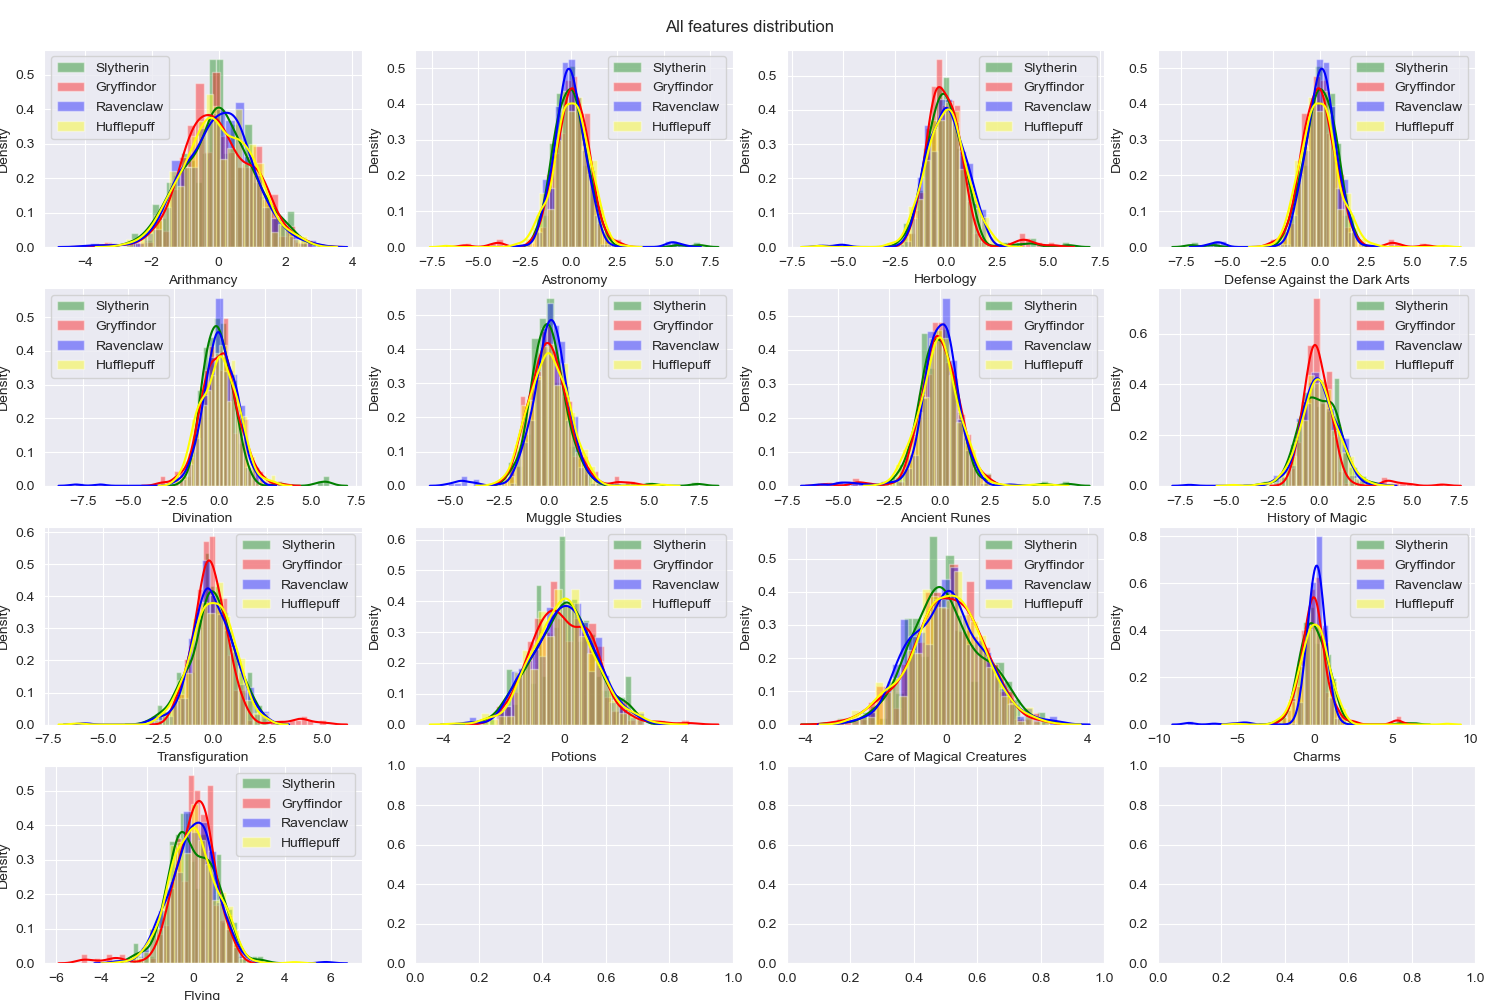
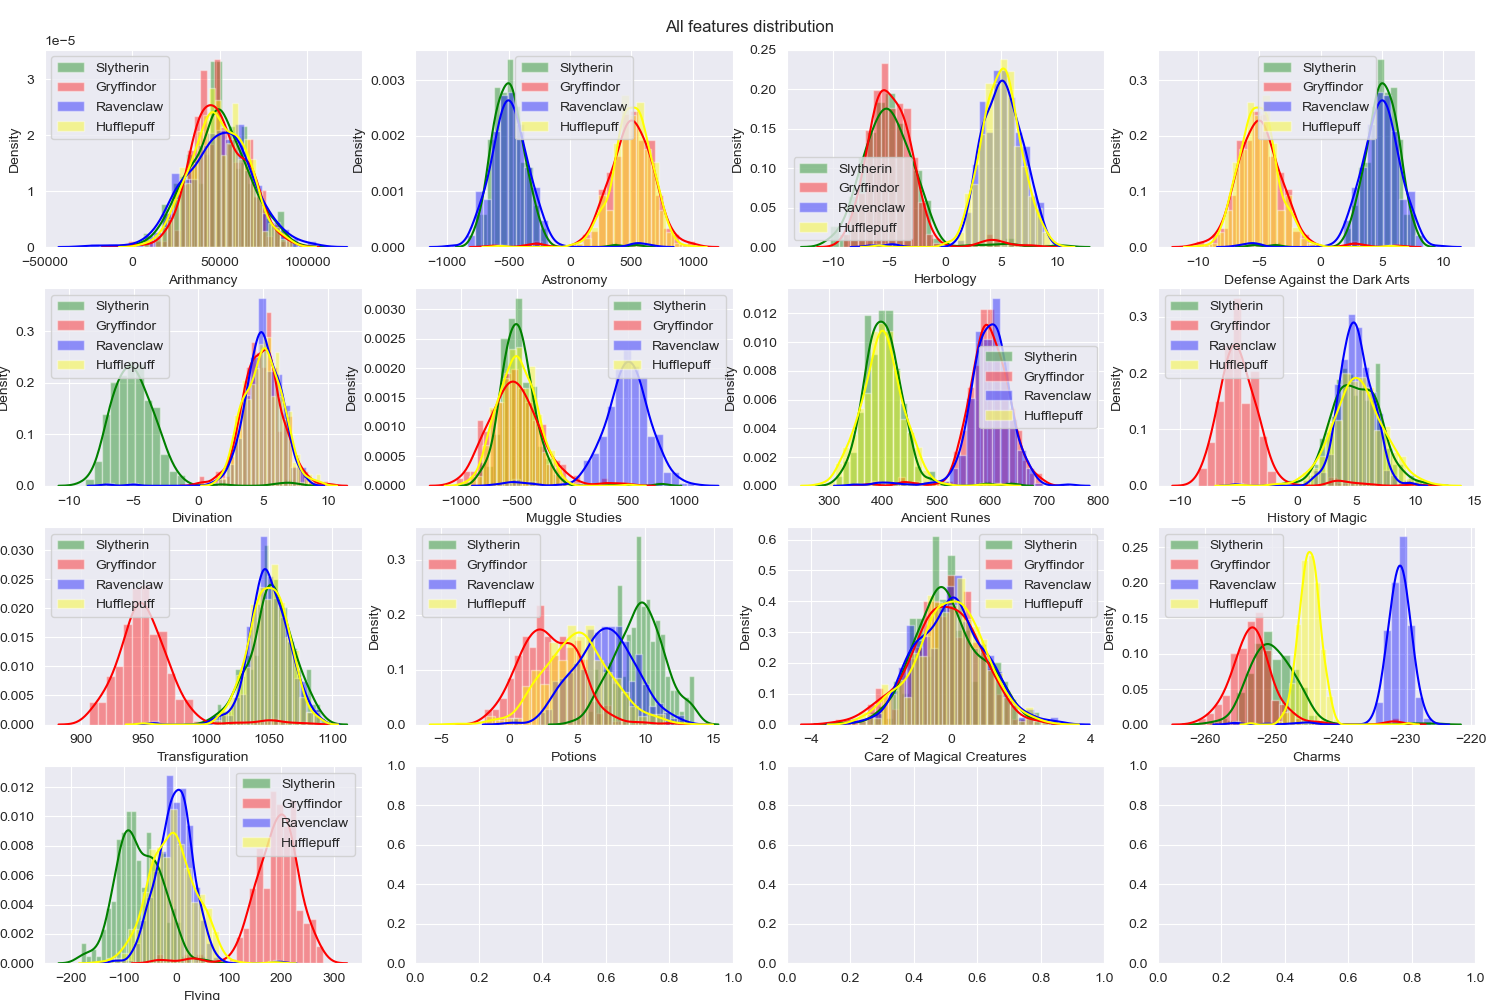
Finished 'scatter' part.

diff --git a/scatter_plot.py b/scatter_plot.py
@@ -1,0 +1,22 @@
+import warnings
+import seaborn as sns
+import matplotlib.pyplot as plt
+import src.tools as tools
+
+if __name__ == '__main__':
+    warnings.simplefilter(action='ignore', category=FutureWarning)
+    args = tools.parse_args_dataset()
+    dataset = tools.read_dataset(args['dataset_path'])
+    houses = ['Slytherin', 'Gryffindor', 'Ravenclaw', 'Hufflepuff']
+    houses_dfs = {}
+    sns.set_style('darkgrid')
+    for house in houses:
+        df = dataset[dataset['Hogwarts House'] == house]
+        houses_dfs[house] = tools.select_features(df, dropna=True)
+    sns.scatterplot(x=houses_dfs['Slytherin']['Astronomy'], y=houses_dfs['Slytherin']['Defense Against the Dark Arts'], label='Slytherin', color='green')
+    sns.scatterplot(x=houses_dfs['Gryffindor']['Astronomy'], y=houses_dfs['Gryffindor']['Defense Against the Dark Arts'], label='Gryffindor', color='red')
+    sns.scatterplot(x=houses_dfs['Ravenclaw']['Astronomy'], y=houses_dfs['Ravenclaw']['Defense Against the Dark Arts'], label='Ravenclaw', color='blue')
+    sns.scatterplot(x=houses_dfs['Hufflepuff']['Astronomy'], y=houses_dfs['Hufflepuff']['Defense Against the Dark Arts'], label='Hufflepuff', color='yellow')
+    plt.legend()
+    plt.savefig('scatter.png')
+    print('Histograms saved to scatter.png.')

diff --git a/histogram.py b/histogram.py
@@ -9,12 +9,10 @@ if __name__ == '__main__':
     dataset = tools.read_dataset(args['dataset_path'])
     houses = ['Slytherin', 'Gryffindor', 'Ravenclaw', 'Hufflepuff']
     houses_dfs = {}
-    scaler = tools.StandartScaler()
     sns.set_style('darkgrid')
     for house in houses:
         df = dataset[dataset['Hogwarts House'] == house]
-        num_df = tools.select_features(df, dropna=True)
-        houses_dfs[house] = scaler.fit_transform(num_df)
+        houses_dfs[house] = tools.select_features(df, dropna=True)
     fig, axes = plt.subplots(4, 4, figsize=(15, 10))
     fig.suptitle('All features distribution')
     fig.tight_layout()
